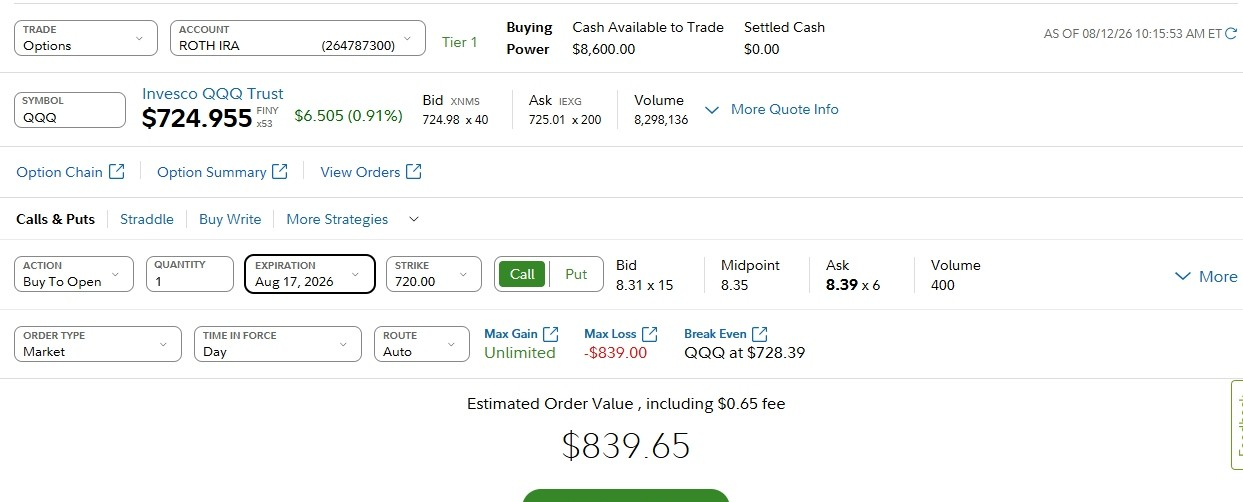
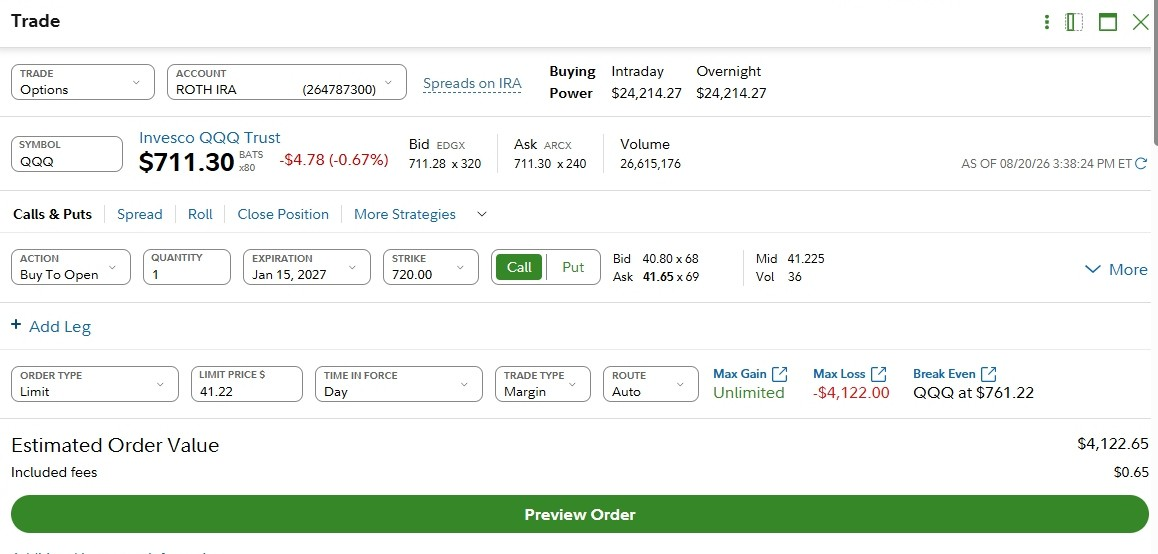
Broker guide: real current Fidelity tickets (nav Trade step, Stocks popup, Options ticket) with re-measured pointers + 3-step entry flow

diff --git a/src/app/api/broker-guide/route.ts b/src/app/api/broker-guide/route.ts
@@ -17,31 +17,35 @@ export const dynamic = 'force-dynamic';
 
 const BASE_URL = process.env.NEXT_PUBLIC_BASE_URL || 'https://trademind.bot';
 
-// Cropped ticket template dimensions.
-const STOCKS = { w: 1270, h: 564, img: 'fidelity-stocks.jpg' };
-const OPTIONS = { w: 1243, h: 502, img: 'fidelity-options.jpg' };
+// Cropped ticket template dimensions (from live Fidelity screenshots, Aug 2026).
+const STOCKS = { w: 396, h: 612, img: 'fidelity-stocks.jpg' };    // floating trade popup
+const OPTIONS = { w: 1158, h: 554, img: 'fidelity-options.jpg' }; // options ticket
 const ETRADE_OPTIONS = { w: 1175, h: 765, img: 'etrade-options.jpg' };
 const GUTTER = 400; // left gutter for value cards
 
 // Field pointer positions as fractions of the TICKET (not the full canvas).
+// Stocks/ETFs popup (396x612): Symbol on top, then Action+Quantity row,
+// then Order type, then Time in force.
 const STOCKS_FIELDS: Record<string, [number, number]> = {
-    symbol:    [0.155, 0.310],
-    action:    [0.133, 0.470],
-    quantity:  [0.265, 0.470],
-    orderType: [0.485, 0.470],
-    tif:       [0.098, 0.560],
+    symbol:    [0.500, 0.205],
+    action:    [0.140, 0.348],
+    quantity:  [0.430, 0.348],
+    orderType: [0.500, 0.493],
+    tif:       [0.500, 0.638],
 };
+// Options ticket (1158x554): Transaction Type + Account row, Symbol row,
+// then Action/Quantity/Expiration/Strike/Call-Put row, then Order type + TIF.
 const OPTIONS_FIELDS: Record<string, [number, number]> = {
-    trade:     [0.060, 0.082],   // "Trade" dropdown (Options)
-    account:   [0.192, 0.082],   // "Account" dropdown
-    underlying:[0.052, 0.193],   // "Symbol" input
-    action:    [0.060, 0.496],
-    quantity:  [0.145, 0.496],
-    expiration:[0.235, 0.496],
-    strike:    [0.335, 0.496],
-    callput:   [0.422, 0.496],
-    orderType: [0.076, 0.631],
-    tif:       [0.216, 0.631],
+    trade:     [0.052, 0.108],   // "Transaction Type" dropdown (Options)
+    account:   [0.259, 0.108],   // "Account" dropdown
+    underlying:[0.052, 0.271],   // "Symbol" input
+    action:    [0.052, 0.496],
+    quantity:  [0.155, 0.496],
+    expiration:[0.250, 0.496],
+    strike:    [0.354, 0.496],
+    callput:   [0.440, 0.496],
+    orderType: [0.078, 0.632],
+    tif:       [0.216, 0.632],
 };
 // E*TRADE options order-entry ticket (1195x785 crop). Compact left-column form:
 // Account (top), Symbol, then a row of Action/Quantity/Expiration/Strike/Type,

diff --git a/src/components/signals/BrokerGuideModal.tsx b/src/components/signals/BrokerGuideModal.tsx
@@ -37,7 +37,27 @@ export function BrokerGuideModal({ symbol, action, quantity, broker = "fidelity"
                     </button>
                 </div>
 
-                <div className="p-4">
+                <div className="p-4 space-y-4">
+                    {/* Step 1 — click Trade in the top nav (nav strip with the button circled) */}
+                    <div>
+                        <p className="text-xs text-white/90 font-semibold mb-1.5">
+                            <span className="inline-flex items-center justify-center w-4.5 h-4.5 rounded-full bg-emerald-600 text-white text-[10px] font-bold mr-1.5 px-1 py-0.5">1</span>
+                            Click <span className="font-bold">Trade</span> in Fidelity's top navigation
+                        </p>
+                        <img src="/broker-guides/fidelity-nav-trade.png" alt="Fidelity navigation bar with the Trade button highlighted" className="w-full rounded-md border border-white/10" />
+                    </div>
+
+                    {/* Step 2 — pick the ticket type */}
+                    <p className="text-xs text-white/90 font-semibold leading-relaxed">
+                        <span className="inline-flex items-center justify-center rounded-full bg-emerald-600 text-white text-[10px] font-bold mr-1.5 px-1 py-0.5">2</span>
+                        In the popup that appears, open the <span className="font-bold">TRADE</span> dropdown and select <span className="font-bold">Options</span> for a LEAPS contract — leave it on <span className="font-bold">Stocks/ETFs</span> for a share order.
+                    </p>
+
+                    {/* Step 3 — the annotated ticket */}
+                    <p className="text-xs text-white/90 font-semibold mb-1.5">
+                        <span className="inline-flex items-center justify-center rounded-full bg-emerald-600 text-white text-[10px] font-bold mr-1.5 px-1 py-0.5">3</span>
+                        Enter each numbered field, then press <span className="font-bold">Preview order</span> yourself
+                    </p>
                     <img src={src} alt={`Fidelity order entry guide for ${symbol}`} className="w-full rounded-lg border border-white/10" />
                     <a
                         href="https://digital.fidelity.com/ftgw/digital/trade-equity"
